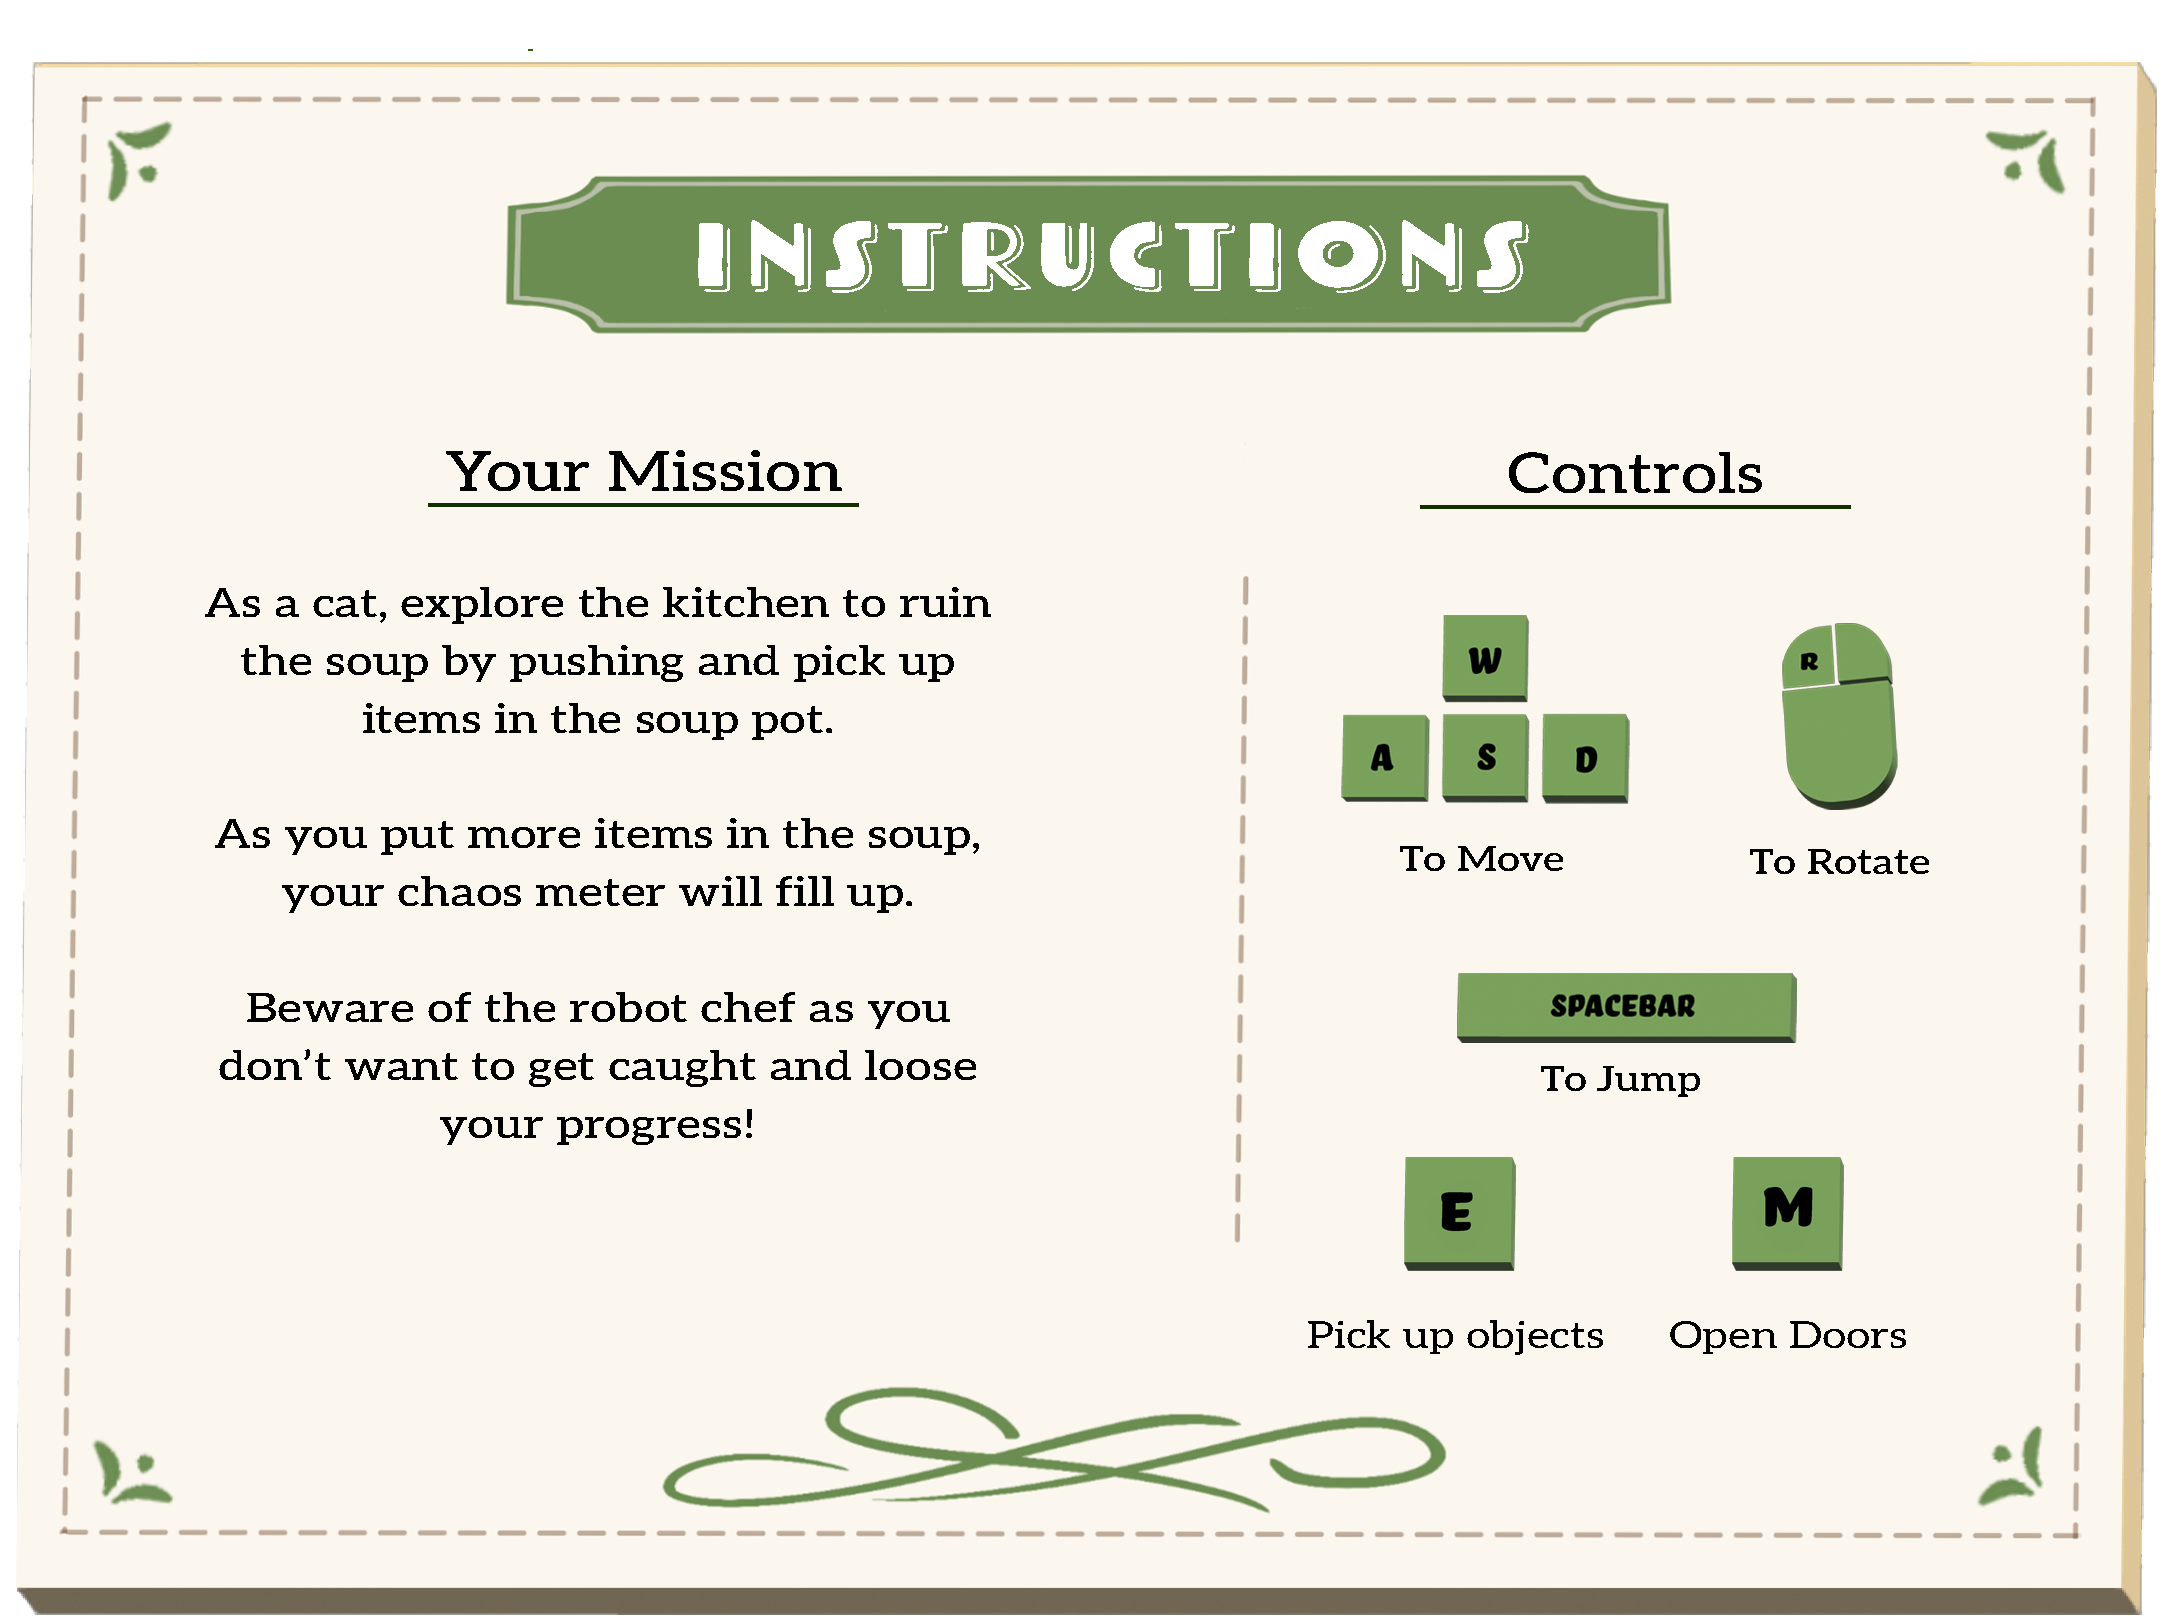
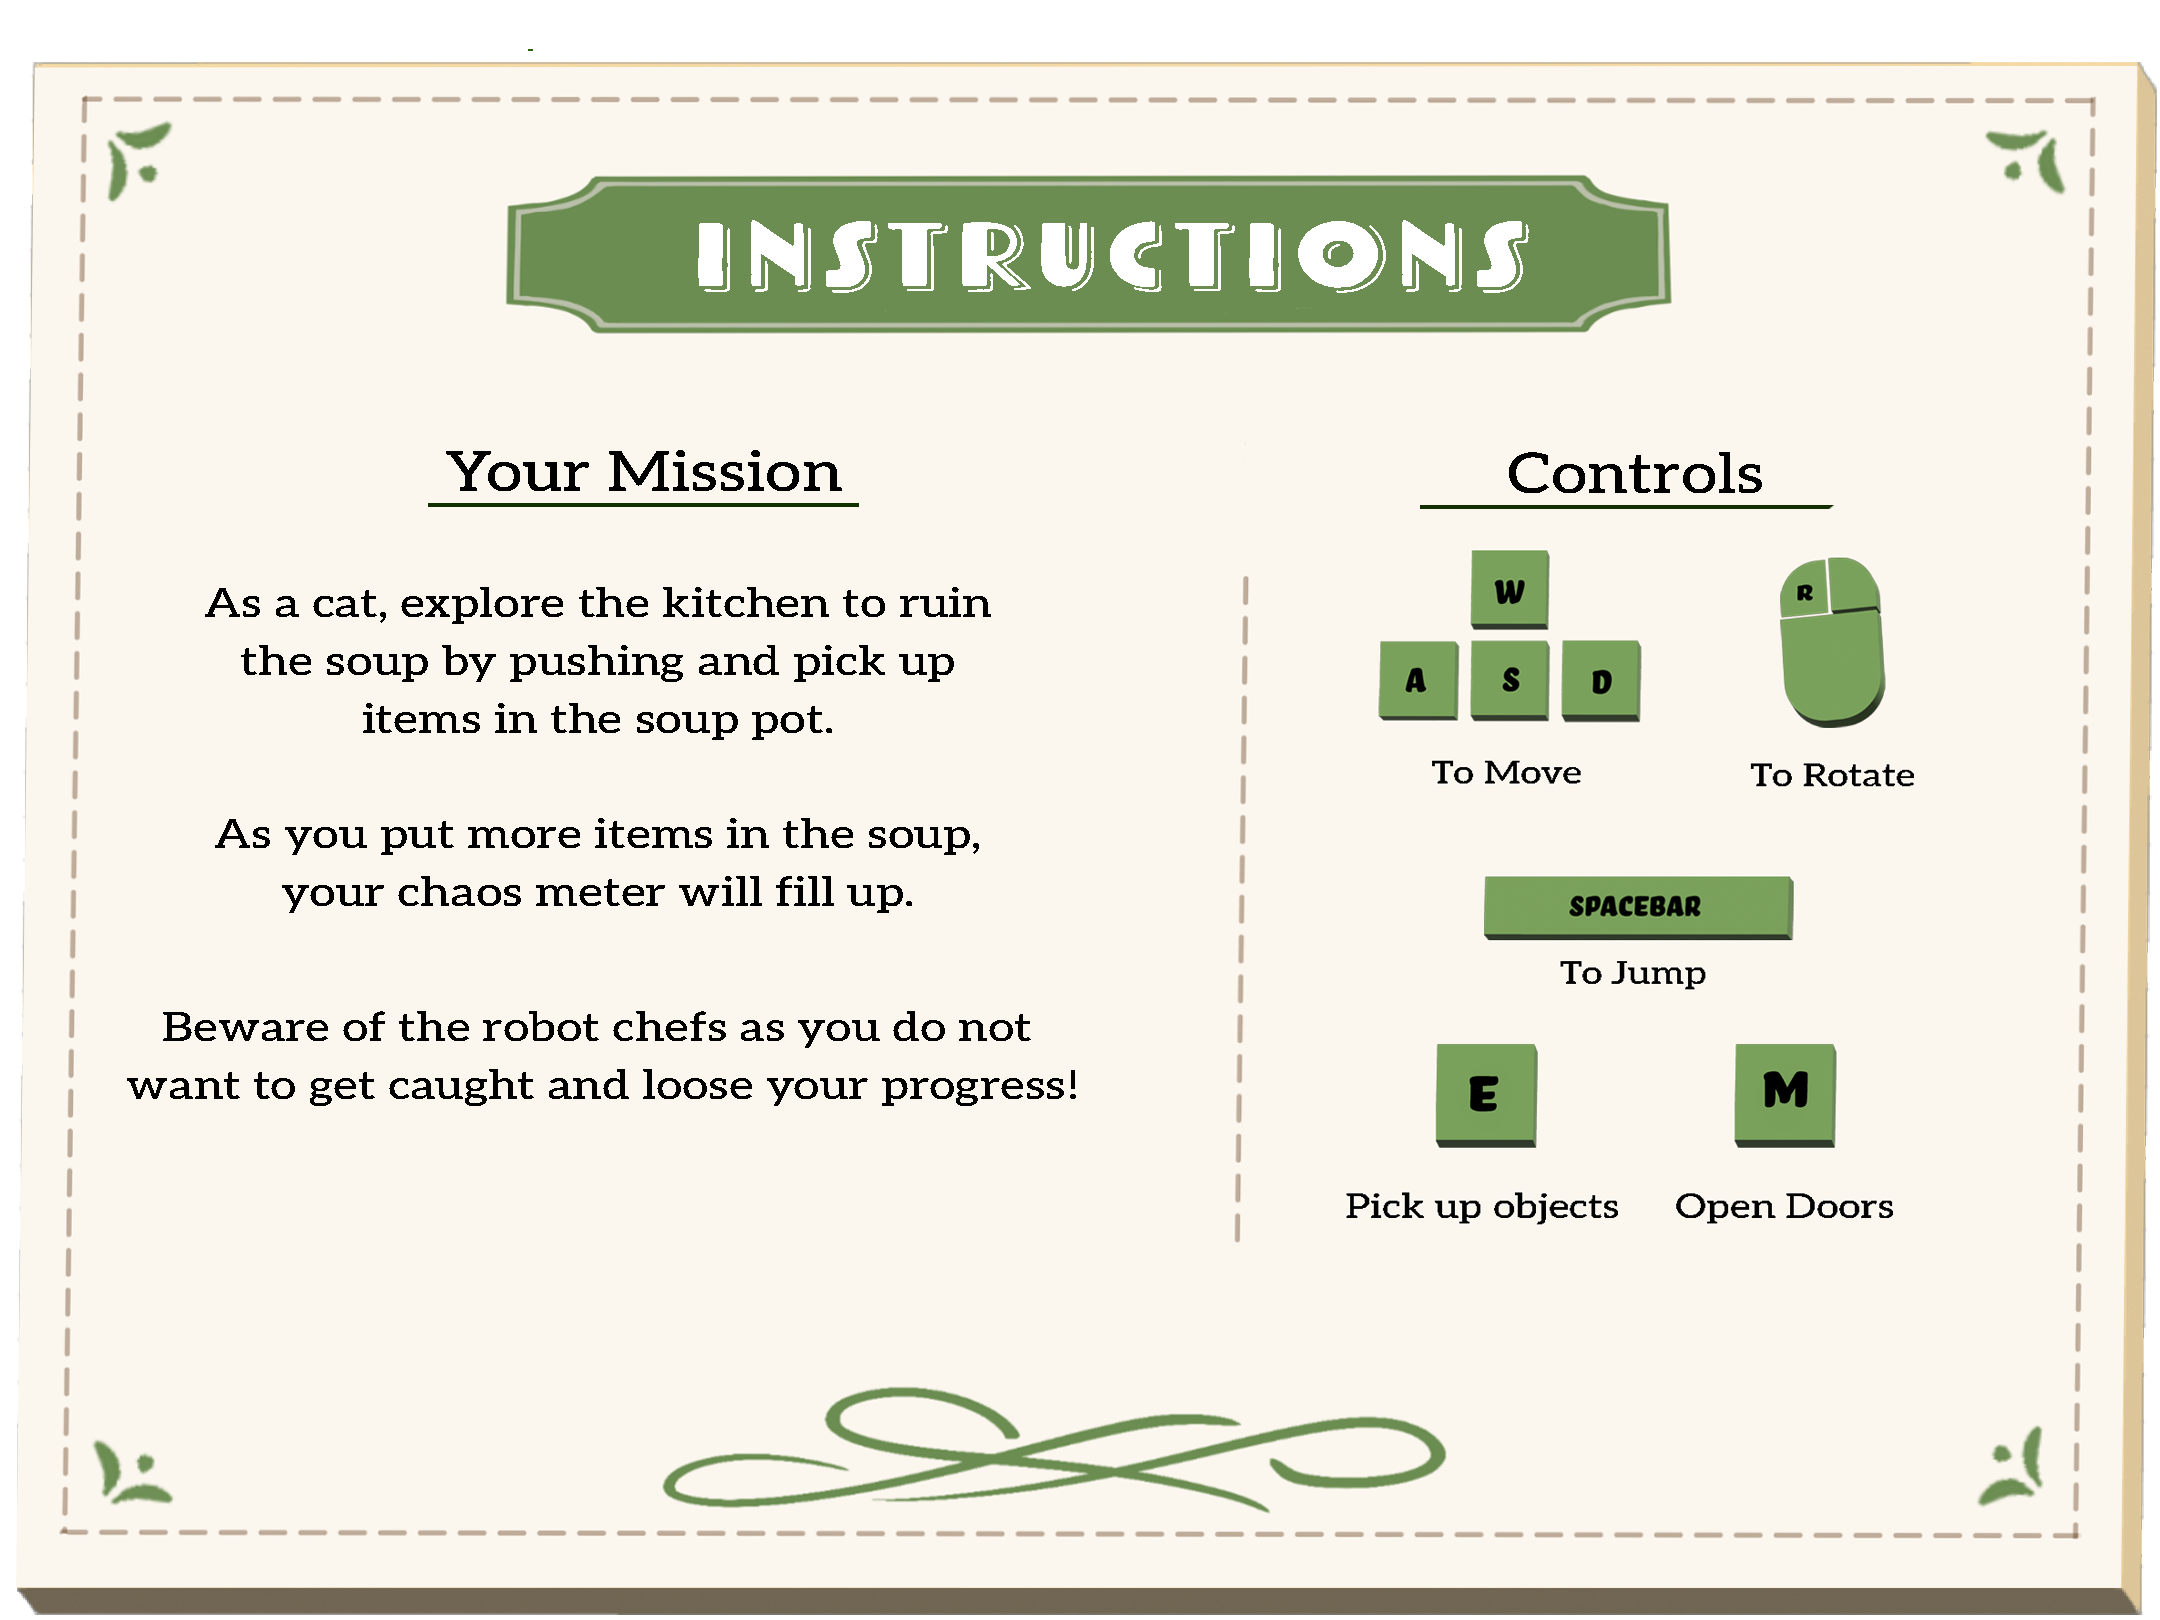
added point instructions, fixed cursor, changed win lose points

Changed region(s): [[0.6204, 0.3395, 0.8995, 0.8333], [0.062, 0.6173, 0.4963, 0.7099], [0.6204, 0.3395, 0.7755, 0.4938]]

diff --git a/Assets/Scripts/SceneChanger.cs b/Assets/Scripts/SceneChanger.cs
@@ -30,12 +30,12 @@ public class SceneChanger : MonoBehaviour
     {
         SceneManager.LoadScene("Options");
     }
-    
-    //Sheenietesting time and score. delete in final
-    public void TimerTesting()
+
+    public void instructionsPoints()
     {
-        SceneManager.LoadScene("TimerTesting");
+        SceneManager.LoadScene("InstructionsPoints");
     }
+
 
 
     // Update is called once per frame

diff --git a/Assets/Scripts/CameraFollow.cs b/Assets/Scripts/CameraFollow.cs
@@ -4,6 +4,15 @@ using UnityEngine;
 
 public class CameraFollow : MonoBehaviour
 {
+
+    void Start()
+    {
+        
+        Cursor.visible = true;
+    }
+
+
+
     public GameObject player;
     public float smoothTime = 0.5f;
     public float rotationSpeed = 5f; // Adjust the rotation speed as needed

diff --git a/Assets/Scripts/timer.cs b/Assets/Scripts/timer.cs
@@ -41,7 +41,7 @@ public class timer : MonoBehaviour
 
             // Check the score
             int score = ScoreManager.instance.score;
-            if (score <= 0)
+            if (score <= 9)
             {
                 SceneManager.LoadScene("BadEndScreen");
             }
